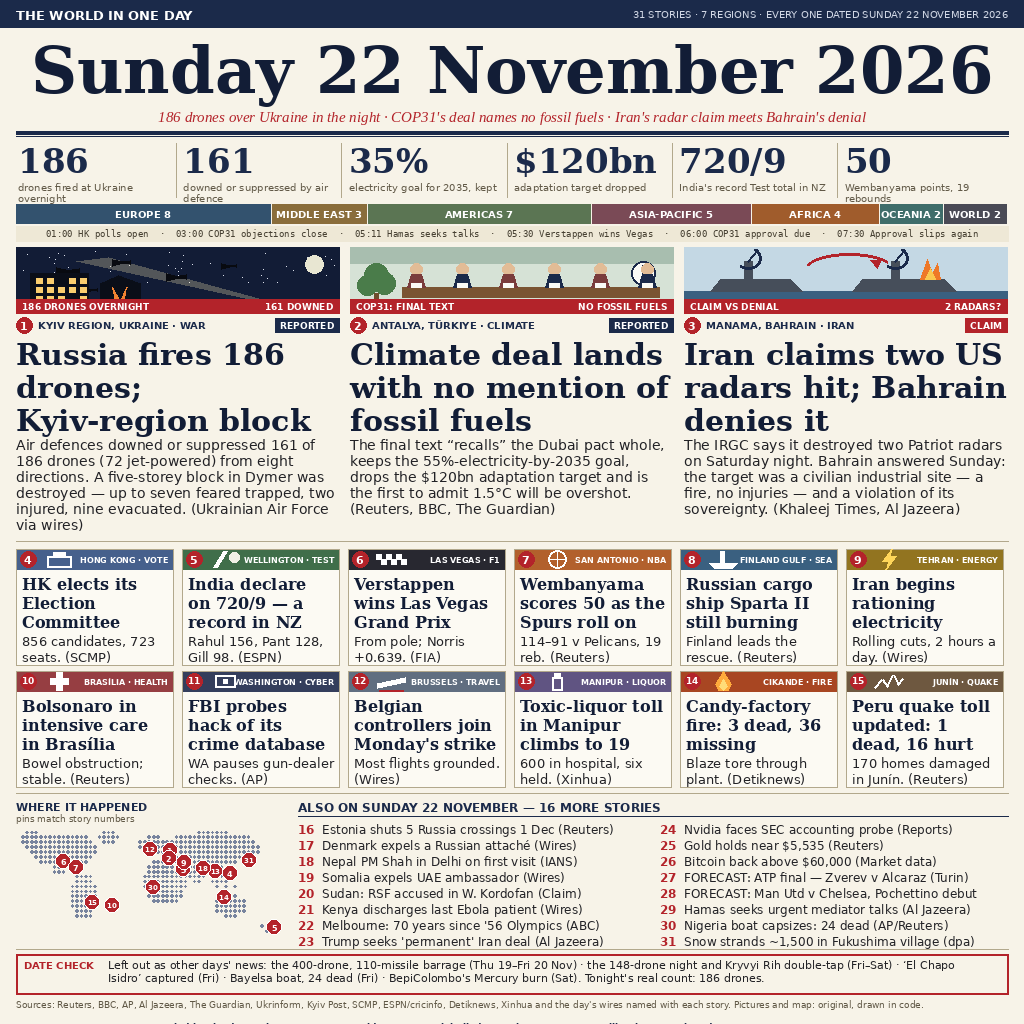
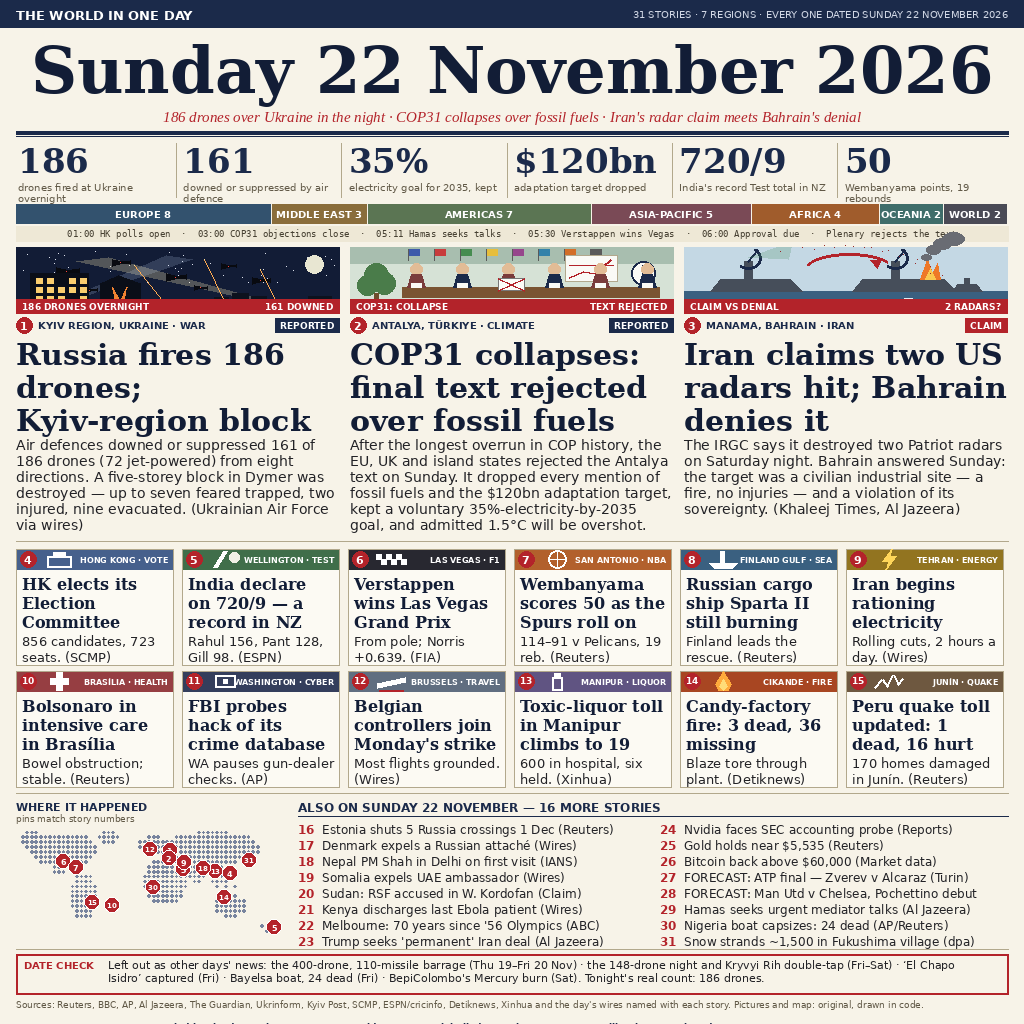
v2: enrich hero scenes (skyline/tracers, flags/chart/rejected text, smoke/arcs) + COP31 collapse framing with corrected 35% goal

diff --git a/draw.py b/draw.py
@@ -123,12 +123,37 @@ def scene_drones(img, d, box):
     bd.polygon([(bw - 26, bh), (60, 14), (92, 10)], fill=(255, 240, 180, 70))
     base = img.crop(box).convert("RGBA")
     img.paste(Image.alpha_composite(base, beam).convert("RGB"), (x0, y0))
-    # drones: small delta silhouettes
+    # second, fainter searchlight from lower left
+    beam2 = Image.new("RGBA", (bw, bh), (0, 0, 0, 0))
+    bd2 = ImageDraw.Draw(beam2)
+    bd2.polygon([(18, bh), (150, 8), (176, 12)], fill=(200, 220, 255, 45))
+    base = img.crop(box).convert("RGBA")
+    img.paste(Image.alpha_composite(base, beam2).convert("RGB"), (x0, y0))
+    # city skyline silhouette across the bottom, with lit windows
+    rng3 = random.Random(42)
+    sx = x0 + 2
+    while sx < x1 - 14:
+        swd = rng3.randint(13, 24)
+        sht = rng3.randint(10, 24)
+        d.rectangle([sx, y1 - sht, sx + swd, y1], fill=(13, 18, 30))
+        for _ in range(rng3.randint(1, 3)):
+            wx = sx + rng3.randint(2, max(2, swd - 5))
+            wy = y1 - sht + rng3.randint(2, max(2, sht - 5))
+            d.rectangle([wx, wy, wx + 2, wy + 2], fill=(238, 196, 105))
+        sx += swd + rng3.randint(2, 5)
+    # drones: small delta silhouettes with red navigation dots
     for (dx, dy, s) in [(x0 + 40, y0 + 20, 9), (x0 + 96, y0 + 12, 7), (x0 + 150, y0 + 26, 8),
-                        (x0 + 205, y0 + 16, 6), (x0 + 66, y0 + 40, 6)]:
+                        (x0 + 205, y0 + 16, 6), (x0 + 66, y0 + 40, 6), (x0 + 178, y0 + 38, 5),
+                        (x0 + 236, y0 + 30, 7), (x0 + 24, y0 + 34, 5)]:
         d.polygon([(dx, dy), (dx + s * 2, dy + s * 0.5), (dx, dy + s)], fill=(8, 10, 16))
         d.polygon([(dx + s * 0.4, dy + s * 0.5), (dx + s * 2.6, dy + s * 0.2),
                    (dx + s * 2.6, dy + s * 0.8)], fill=(8, 10, 16))
+        d.point((dx + s * 1.2, dy + s * 0.5), fill=(255, 70, 60))
+    # air-defence tracer streaks rising from the skyline
+    for (tx0, tx1, ty1) in [(x0 + 150, x0 + 118, y0 + 18), (x0 + 210, x0 + 188, y0 + 12),
+                            (x0 + 262, x0 + 244, y0 + 22)]:
+        d.line([tx0, y1 - 8, tx1, ty1], fill=(255, 170, 80), width=1)
+        d.point((tx1, ty1), fill=(255, 220, 150))
     # apartment block, lower left
     bx, by, bw, bh = x0 + 14, y1 - 40, 58, 40
     d.rectangle([bx, by, bx + bw, by + bh], fill=(10, 14, 24))
@@ -151,6 +176,19 @@ def scene_cop(img, d, box):
     x0, y0, x1, y1 = box
     d.rectangle(box, fill=(214, 226, 214))
     d.rectangle([x0, y0, x1, y0 + 16], fill=(168, 190, 175))
+    # row of delegates' flags along the top band
+    flag_cols = [(60, 90, 170), (200, 60, 60), (70, 140, 80), (230, 190, 60),
+                 (150, 70, 140), (50, 130, 170), (210, 110, 40), (90, 90, 90)]
+    for i, fc in enumerate(flag_cols):
+        fx = x0 + 58 + i * 26
+        d.line([fx, y0 + 2, fx, y0 + 13], fill=(90, 90, 90), width=1)
+        d.rectangle([fx + 1, y0 + 2, fx + 11, y0 + 8], fill=fc)
+    # wall chart: the rising temperature line, next to the clock
+    chx, chy = x1 - 108, y0 + 20
+    d.rectangle([chx, chy - 12, chx + 52, chy + 14], fill=(250, 250, 246), outline=RULE, width=1)
+    d.line([chx + 4, chy + 10, chx + 18, chy + 4, chx + 30, chy + 6, chx + 46, chy - 8],
+           fill=RED, width=2)
+    d.line([chx + 4, chy - 2, chx + 48, chy - 2], fill=RED, width=1)
     # wall clock
     cx, cy, r = x1 - 30, y0 + 26, 12
     d.ellipse([cx - r, cy - r, cx + r, cy + r], outline=NAVY, width=2, fill=(250, 250, 246))
@@ -171,6 +209,12 @@ def scene_cop(img, d, box):
         d.polygon([(gx - 9, ty2), (gx + 9, ty2), (gx + 5, ty2 - 13), (gx - 5, ty2 - 13)],
                   fill=NAVY if i % 2 else (122, 60, 60))
         d.rectangle([gx - 5, ty2 - 4, gx + 5, ty2], fill=(250, 250, 246))
+    # the rejected text at the centre of the table, crossed out in red
+    dcx = (x0 + x1) / 2
+    d.rectangle([dcx - 13, ty2 - 9, dcx + 13, ty2 + 3], fill=(252, 252, 248),
+                outline=(120, 120, 120), width=1)
+    d.line([dcx - 13, ty2 - 9, dcx + 13, ty2 + 3], fill=RED, width=2)
+    d.line([dcx - 13, ty2 + 3, dcx + 13, ty2 - 9], fill=RED, width=2)
 
 
 def scene_bahrain(img, d, box):
@@ -193,6 +237,34 @@ def scene_bahrain(img, d, box):
             d.polygon([(fx, fy), (fx + 7, fy - 20), (fx + 12, fy - 6), (fx + 17, fy - 16),
                        (fx + 20, fy)], fill=(238, 120, 40))
             d.polygon([(fx + 5, fy), (fx + 10, fy - 11), (fx + 15, fy)], fill=(250, 200, 80))
+            # smoke plume rising and drifting right
+            for (ox, oy, rr) in [(6, -22, 5), (13, -29, 7), (22, -35, 9), (33, -40, 11)]:
+                d.ellipse([fx + ox - rr, fy + oy - rr * 0.6, fx + ox + rr, fy + oy + rr * 0.6],
+                          fill=(105, 108, 115))
+    # radar sweep wedge from the first ship's dish
+    swx, swy = x0 + 26 + 92 * 0.42, y1 - 22 - 34
+    sweep = Image.new("RGBA", (x1 - x0, y1 - y0), (0, 0, 0, 0))
+    sd = ImageDraw.Draw(sweep)
+    sd.polygon([(swx - x0, swy - y0), (swx - x0 + 44, swy - y0 - 16), (swx - x0 + 40, swy - y0 + 2)],
+               fill=(70, 140, 90, 60))
+    base = img.crop(box).convert("RGBA")
+    img.paste(Image.alpha_composite(base, sweep).convert("RGB"), (x0, y0))
+    # dotted missile arcs falling toward the second ship
+    for t in range(9):
+        for (ax, ay, bx2, by2, cx2, cy2) in [(x0 + 96, y0 + 4, x0 + 190, y0 - 14, x0 + 246, y1 - 40),
+                                             (x0 + 130, y0 + 2, x0 + 214, y0 - 8, x0 + 258, y1 - 38)]:
+            u = t / 8.0
+            px = (1 - u) ** 2 * ax + 2 * (1 - u) * u * bx2 + u ** 2 * cx2
+            py = (1 - u) ** 2 * ay + 2 * (1 - u) * u * by2 + u ** 2 * cy2
+            d.point((px, py), fill=(150, 40, 40))
+    # wave strokes on the water + a small third boat at the right edge
+    for (wx, wy) in [(x0 + 14, y1 - 14), (x0 + 120, y1 - 8), (x0 + 216, y1 - 15),
+                     (x0 + 262, y1 - 7), (x0 + 66, y1 - 5)]:
+        d.arc([wx, wy, wx + 16, wy + 6], start=200, end=340, fill=(225, 238, 245), width=1)
+    bx3, by3 = x0 + 268, y1 - 22
+    d.polygon([(bx3, by3), (bx3 + 30, by3), (bx3 + 24, by3 - 7), (bx3 + 5, by3 - 7)],
+              fill=(70, 78, 90))
+    d.rectangle([bx3 + 12, by3 - 13, bx3 + 17, by3 - 7], fill=(70, 78, 90))
     # denial arrow arcing back
     ax0, ay0, ax1, ay1 = x0 + 120, y0 + 6, x0 + 210, y0 + 40
     d.arc([ax0, ay0, ax1, ay1], start=200, end=330, fill=RED, width=3)

diff --git a/stories.py b/stories.py
@@ -22,7 +22,7 @@ REGIONS = [
 
 TIMELINE = ("01:00 HK polls open  ·  03:00 COP31 objections close  ·  "
             "05:11 Hamas seeks talks  ·  05:30 Verstappen wins Vegas  ·  "
-            "06:00 COP31 approval due  ·  07:30 Approval slips again")
+            "06:00 Approval due  ·  Plenary rejects the text")
 
 HEROES = [
     {
@@ -37,13 +37,14 @@ HEROES = [
     },
     {
         "num": 2, "scene": "cop",
-        "banner": "COP31: FINAL TEXT", "banner2": "NO FOSSIL FUELS",
+        "banner": "COP31: COLLAPSE", "banner2": "TEXT REJECTED",
         "dateline": "ANTALYA, TÜRKIYE · CLIMATE", "chip": "REPORTED",
-        "headline": "Climate deal lands with no mention of fossil fuels",
-        "summary": ("The final text \u201crecalls\u201d the Dubai pact whole, keeps the "
-                    "55%-electricity-by-2035 goal, drops the $120bn adaptation target and "
-                    "is the first to admit 1.5\u00b0C will be overshot. (Reuters, BBC, "
-                    "The Guardian)"),
+        "headline": "COP31 collapses: final text rejected over fossil fuels",
+        "summary": ("After the longest overrun in COP history, the EU, UK and island "
+                    "states rejected the Antalya text on Sunday. It dropped every mention "
+                    "of fossil fuels and the $120bn adaptation target, kept a voluntary "
+                    "35%-electricity-by-2035 goal, and admitted 1.5\u00b0C will be "
+                    "overshot. (Reuters, AP, Le Monde)"),
     },
     {
         "num": 3, "scene": "bahrain",

diff --git a/main.py b/main.py
@@ -45,7 +45,7 @@ def draw_page():
     d.text(((W - dw) / 2, 32), date, font=f_date, fill=NAVY_DARK)
     y = 32 + f_date.size + 12
 
-    stand = ("186 drones over Ukraine in the night · COP31's deal names no fossil fuels · "
+    stand = ("186 drones over Ukraine in the night · COP31 collapses over fossil fuels · "
              "Iran's radar claim meets Bahrain's denial")
     f_st = italic(15)
     d.text(((W - tw(d, stand, f_st)) / 2, y), stand, font=f_st, fill=RED)
